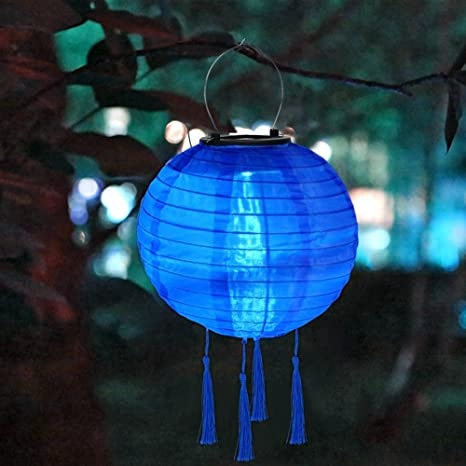
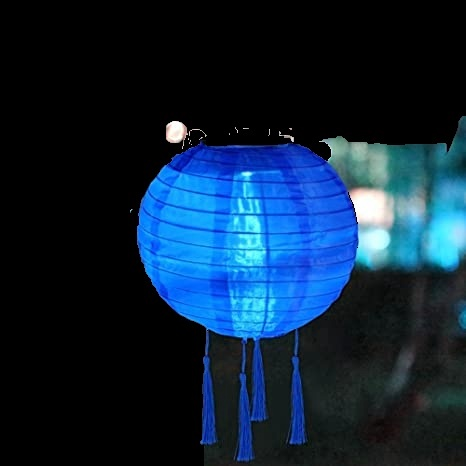
remove bg seems to be okay

diff --git a/MainProgram/remove_bg.py b/MainProgram/remove_bg.py
@@ -31,7 +31,7 @@ class RemoveBackGround:
                 if x_i*x_i+y_i*y_i<=r*r:
                     temp_indices.append([x_i+x,y_i+y])
         for i in temp_indices:
-            if i[0]>0 and i[0]<xmax and i[1]>0 and i[1]<ymax:
+            if i[0]>=0 and i[0]<xmax and i[1]>=0 and i[1]<ymax:
                 indices.append([i[0], i[1]])
         return indices
             
@@ -48,18 +48,27 @@ class RemoveBackGround:
     def updatefig(self, *args):
         x, y = self.x, self.y
         if self.mouse:
-            if int(x)>0 and int(x)<np.shape(self.dummy)[0] and int(y)>0 and int(y)<np.shape(self.dummy)[1]:
+            if int(x)>0 and int(x)<=np.shape(self.dummy)[0] and int(y)>0 and int(y)<=np.shape(self.dummy)[1]:
                 indices = self.draw_discrete_circle_with_boundaries(x, y,self.amplitude,np.shape(self.dummy)[0],np.shape(self.dummy)[1])
-                for i in indices:     
-                    self.dummy[i[1],i[0]] = [255,255,255]
+                if not self.invert:
+                    for i in indices:     
+                        self.dummy[i[1],i[0],:] = [255,255,255]
+                else:
+                    for i in indices:
+                        self.dummy[i[1],i[0]] = self.image[i[1],i[0]]
         self.im.set_data(self.dummy)
         return self.im,
 
     def mouse_move(self, event):
-        self.x, self.y = event.xdata, event.ydata
+        if event.xdata!=None and event.ydata!=None and event.xdata>=0 and event.ydata>=0:
+            self.x, self.y = event.xdata, event.ydata
+
+    def invert_behavior(self, event):
+        self.invert= not self.invert
 
     def manual_rb(self, image):
         self.mouse = False
+        self.invert = False
         mean_slider_value = 5
         self.x, self.y = -mean_slider_value*2,-mean_slider_value*2
         self.amplitude = int(mean_slider_value * 2)
@@ -75,27 +84,33 @@ class RemoveBackGround:
         self.slider.on_changed(self.slider_update)
         # Button to reset the image
         resetax = plt.axes([0.8, 0.025, 0.1, 0.04])
-        button = Button(resetax, 'Reset', color='blue',
+        resbutton = Button(resetax, 'Reset', color='blue',
                 hovercolor='red')
-        button.on_clicked(self.reset)
+        resbutton.on_clicked(self.reset)
+        invax = plt.axes([0.1, 0.025, 0.1, 0.04])
+        invbutton = Button(invax, 'Invert', color='blue',
+                hovercolor='red')
+        invbutton.on_clicked(self.invert_behavior)
         ani = animation.FuncAnimation(self.fig, self.updatefig, interval=50, blit=True)          
         # Tie the callbacks with the mouse click
         cid = self.fig.canvas.mpl_connect('button_press_event', self.mouse_click)
         self.fig.canvas.mpl_connect('button_release_event', self.mouse_release)
         plt.connect('motion_notify_event', self.mouse_move)
-        return_value = input('Press enter to confirm the choice')
+        return_value = input('Press enter to confirm the choice  ')
         plt.close()
         plt.ioff()
     
     # Background Removing Algorithms
-    def add_blank_screen(self, foreground, img):
-        foreground = 1 -  foreground
-        # Create a blank background
-        background = np.zeros_like(img, dtype=np.uint8)
-        # Combine the foreground and background to get the final result
-        result = foreground + background
-        result = 1 - result
-        return result
+    def add_blank_screen(self, foreground, mask):
+        single_thresh = 5
+        sum_thresh = 3 * single_thresh
+        for i in range(np.shape(foreground)[0]):
+            for j in range(np.shape(foreground)[1]):
+                # img[i, j] is the RGB pixel at position (i, j)
+                # check if it's [0, 0, 0] and replace with [255, 255, 255] if so
+                if foreground[i, j].sum() <= sum_thresh and foreground[i,j,0]<single_thresh and foreground[i,j,1]<single_thresh and foreground[i,j,2]<single_thresh:
+                    foreground[i, j] = [255, 255, 255]
+        return foreground
 
     def compare(self, s1, s2):
         remove = string.punctuation + string.whitespace
@@ -107,52 +122,12 @@ class RemoveBackGround:
         # Apply background subtraction to the image
         mask = fgbg.apply(img)
         # Apply morphological operations to improve the mask
-        kernel = cv2.getStructuringElement(cv2.MORPH_ELLIPSE, (10, 10))
+        kernel = cv2.getStructuringElement(cv2.MORPH_ELLIPSE, (5, 5))
         mask = cv2.morphologyEx(mask, cv2.MORPH_CLOSE, kernel)
         mask = cv2.morphologyEx(mask, cv2.MORPH_OPEN, kernel)
         # Multiply the original image with the mask to obtain the foreground
-        foreground = img * mask[:, :, np.newaxis] / 255.0
-
-        result = self.add_blank_screen(foreground, img)
-        return result
-
-    def edge_base_segmentation(self, img):
-        # Convert the image to grayscale
-        gray = cv2.cvtColor(img, cv2.COLOR_RGB2GRAY)
-        # Apply Canny edge detection to the grayscale image
-        edges = cv2.Canny(gray, 50, 100)
-        # Fill the holes in the edges using morphological operations
-        kernel = cv2.getStructuringElement(cv2.MORPH_ELLIPSE, (3, 3))
-        edges = cv2.morphologyEx(edges, cv2.MORPH_CLOSE, kernel)
-        # Invert the edges to obtain the foreground
-        foreground = 255 - edges
-        # Create a blank background
-        background = np.zeros_like(img, dtype=np.uint8)
-        # Combine the foreground and background to get the final result
-        result = foreground[:, :, np.newaxis] + background
-        return result
-
-    def watershed(self, img):
-        # Convert the image to grayscale and apply Gaussian blur
-        gray = cv2.cvtColor(img, cv2.COLOR_BGR2GRAY)
-        blurred = cv2.GaussianBlur(gray, (7, 7), 0)
-        # Perform Otsu thresholding to obtain a binary image
-        _, thresh = cv2.threshold(blurred, 0, 255, cv2.THRESH_BINARY + cv2.THRESH_OTSU)
-        # Create a marker image using connected component analysis
-        _, markers = cv2.connectedComponents(thresh)
-        # Apply the Watershed algorithm
-        markers = cv2.watershed(img, markers)
-        # Create the final mask
-        mask = np.where(markers == -1, 0, 1).astype("uint8")
-        # Multiply the original image with the mask to obtain the foreground
         foreground = img * mask[:, :, np.newaxis]
-
-        result = self.add_blank_screen(foreground, img)
-        # Create a blank background
-        #background = np.zeros_like(img, dtype=np.uint8)
-        # Combine the foreground and background to get the final result
-        #result = foreground + background
-        return result
+        return foreground
 
     def grab_cut(self, img, automated):
         plt.imshow(img),plt.grid(),plt.show()
@@ -163,8 +138,8 @@ class RemoveBackGround:
         ok = False
         while(not ok):
             if automated:
-                x = 0
-                y = 0
+                x = 1
+                y = 1
                 w = img.shape[0]
                 h = img.shape[1]
             else:
@@ -188,17 +163,40 @@ class RemoveBackGround:
             foreground = img*mask2[:,:,np.newaxis]
             img_modified = self.add_blank_screen(foreground, img)
             #img_modified = background + foreground
-            plt.ion()
-            plt.subplot(2,1,1),plt.imshow(img)
-            plt.subplot(2,1,2),plt.imshow(img_modified),plt.show()
+            
             if not automated:
+                plt.ion()
+                plt.subplot(2,1,1),plt.imshow(img)
+                plt.subplot(2,1,2),plt.imshow(img_modified),plt.show()
                 dec = input('Is the crop okay? (y/n)')
+                plt.ioff()
                 if dec == 'y':
                     ok = True
             else:
                 ok = True
-            plt.ioff()
         return img_modified
+    
+    def watershed(self, img):
+        # Convert the image to grayscale and apply Gaussian blur
+        gray = cv2.cvtColor(img, cv2.COLOR_BGR2GRAY)
+        blurred = cv2.GaussianBlur(gray, (7, 7), 0)
+        # Perform Otsu thresholding to obtain a binary image
+        _, thresh = cv2.threshold(blurred, 0, 255, cv2.THRESH_BINARY + cv2.THRESH_OTSU)
+        # Create a marker image using connected component analysis
+        _, markers = cv2.connectedComponents(thresh)
+        # Apply the Watershed algorithm
+        markers = cv2.watershed(img, markers)
+        # Create the final mask
+        mask = np.where(markers == -1, 0, 1).astype("uint8")
+        # Multiply the original image with the mask to obtain the foreground
+        foreground = img * mask[:, :, np.newaxis]
+
+        result = self.add_blank_screen(foreground, img)
+        # Create a blank background
+        #background = np.zeros_like(img, dtype=np.uint8)
+        # Combine the foreground and background to get the final result
+        #result = foreground + background
+        return result
 
     def k_means_clustering(self, img):
         # Convert the image to a one-dimensional array
@@ -214,51 +212,45 @@ class RemoveBackGround:
         # Multiply the original image with the mask to obtain the foreground
         foreground = img * mask[:, :, np.newaxis]
         result = self.add_blank_screen(foreground, img)
-        # Create a blank background
-        #background = np.zeros_like(img, dtype=np.uint8)
-        # Combine the foreground and background to get the final result
-        #result = foreground + background
+        
         return result
     
-    def image_selection(self, modified_images):
+    def image_selection(self, modified_images, original_image):
         # Plot the images in order to help the user to decided which image is the best
         #col = 0
-        n_row = ceil(len(modified_images)/2)
+        n_row = ceil((len(modified_images) + 1)/2)
+        print(len(modified_images))
         #row = 0
         plt.ioff()
         with plt.ion():
             for i, mod_im in enumerate(modified_images):
-                #col = col + 1
-                #if i%n_row==0:
-                #    row+=1
-                #    col = 1
-                #print(f'Giro {i}. Le variabili sono. \ncol={col}\nn_row={n_row}\nrow{row}\nlunghezza modified images={len(modified_images)}')
-                plt.subplot(n_row,2,i+1),plt.imshow(mod_im)
-        choice = int(input('Which image do you want to keep? (press an integer)\n Note that the images are filled from rows and the\n' + 
-        'algorithms are applied in the same order as you have chosen before'))
+                print('here')
+                ax = plt.subplot(n_row,2,i+1)
+                ax.set_title(f'Algorithm {i+1}'), ax.set_xticks([]), ax.set_yticks([])
+                plt.imshow(mod_im)
+            ax = plt.subplot(n_row, 2, len(modified_images) + 1)
+            ax.set_title(f'Original Image')
+            ax.set_xticks([]), ax.set_yticks([])
+            plt.imshow(original_image)
+        choice = int(input('Which image do you want to keep? (press an integer for algorithms or -1 for the original)\n' + 
+        'algorithms are applied in the same order as you have chosen before  '))
         plt.close()
         plt.ioff()
         return choice
 
-    def automated_algorithm_selection(self, img_to_save, algorithm, automated, original_image):
-        if self.compare(algorithm, '1'):
-            print('1')
-            modified_images = self.mog2(img_to_save)
-        elif self.compare(algorithm, '2'):
-            print('2')
-            modified_images =  self.edge_base_segmentation(img_to_save)
-        elif self.compare(algorithm, '3'):
-            print('3')
-            modified_images =  self.watershed(img_to_save)
-        elif self.compare(algorithm, '4'):
-            print('4')
-            modified_images =  self.grab_cut(img_to_save, automated)
-        elif self.compare(algorithm, '5'):
-            print('5')
-            modified_images = self.k_means_clustering(img_to_save)
-        else:
+    def automated_algorithm_selection(self, img_to_save, algorithms, automated, original_image, modified_images):
+        for algorithm in algorithms:
+            if self.compare(algorithm, '1'):
+                modified_images.append(self.mog2(img_to_save))
+            elif self.compare(algorithm, '2'):
+                modified_images.append(self.k_means_clustering(img_to_save))
+            elif self.compare(algorithm, '3'):
+                modified_images.append(self.grab_cut(img_to_save, automated))
+            else:
+                modified_images.append(original_image)
+        choice = self.image_selection(modified_images, original_image)
+        if choice == -1:
             return original_image
-        choice = self.image_selection(modified_images)
         img_to_save = modified_images[choice-1]
         return img_to_save
 
@@ -279,8 +271,7 @@ class RemoveBackGround:
 
         x = input('Which background removing algorithms do you want to apply?\n' + 
         'Separate the numbers using a comma (,)\n' + 
-        '1) mog2 \n2) edge_base_segmentation \n3) watershed \n4) grab_cut' + 
-        '\n5) k_means_clustering\n')
+        '1) mog2 \n2) k_means_clustering \n3) grab_cut\n')
 
         # Remove spaces
         
@@ -313,9 +304,8 @@ class RemoveBackGround:
                     self.manual_rb(img_to_save)
                     img_to_save = self.dummy
                 else:
-                    for algorithm in algorithms:
-                        img_to_save = self.automated_algorithm_selection(img_to_save, 
-                                                        algorithm, automated, original_image)
+                    img_to_save = self.automated_algorithm_selection(img_to_save, 
+                                                        algorithms, automated, original_image, modified_images)
 
                 
                 x = input('Do you want to apply another algorithm? (y/n) ')

diff --git a/RB/knn.py b/RB/knn.py
@@ -1,0 +1,26 @@
+import cv2 as cv
+import numpy as np
+'''backSub = cv.createBackgroundSubtractorKNN()
+#backSub = cv.createBackgroundSubtractorMOG2()
+frame = cv.imread('./esempio_remove_background.jpg')
+fgMask = backSub.apply(frame)
+# reduce some noise in the fgMask
+kernel = np.ones((3,3), np.uint8)
+fgMask = cv.erode(fgMask,kernel,iterations=2)
+fgMask = cv.dilate(fgMask,kernel,iterations=2)
+
+fgMask[np.abs(fgMask)<250]=0
+
+cv.imshow('Frame', frame)
+cv.imshow('FGMask', fgMask)
+cv.waitKey(0)'''
+def resize(dst,img):
+    width = img.shape[1]
+    height = img.shape[0]
+    dim = (width,height)
+    resized = cv.resize(dst,dim,interpolation=cv.INTER_AREA)
+    return resized
+
+frame = cv.imread('./esempio_remove_background.jpg')
+takeBGImage = 0
+
